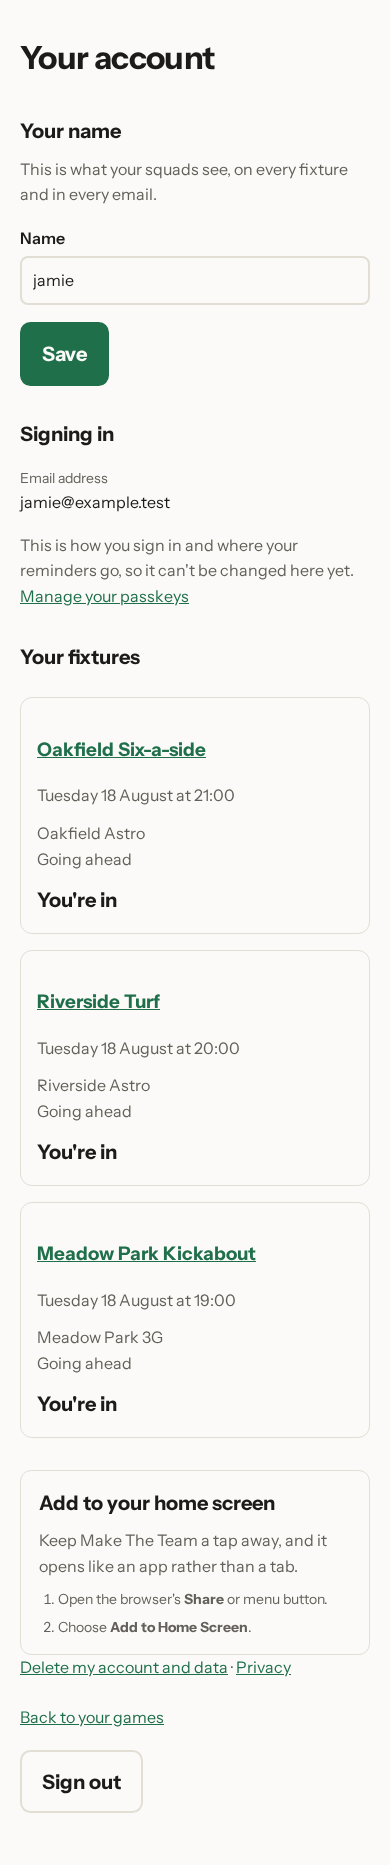
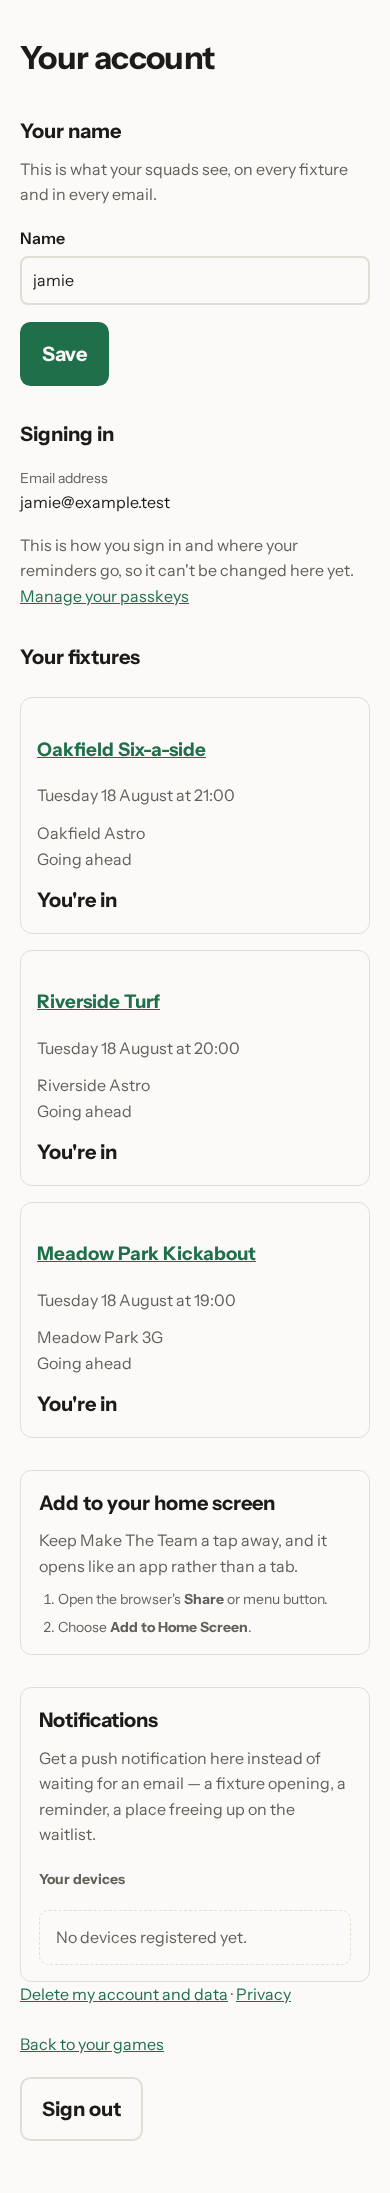
test: verify push in a browser, and document what only a phone can prove
Adds test/browser/push.spec.ts (M14 Task 15): the subscribe endpoint rejects
a malformed subscription reached by a real page fetch with no CSP violation,
the account page's push affordance stays dark with no VAPID key configured
(matching wrangler dev and production tonight), and the device list's
plain-form Remove control renders and works with JavaScript off.

Documents in docs/runbooks/browser-testing.md what this suite cannot prove:
real delivery, notification-tap routing, and removal actually stopping
delivery, none of which Playwright can assert without a CDP push domain that
does not exist. Writes the manual Android/iPhone checklist that is the only
thing that will ever prove push works end to end, to be run once the repo
owner generates the real VAPID keypair.

Regenerates the guide (docs/guide/manifest.json, five images, and
07-your-own-fixtures.md's account section) now that the account page's
Notifications section is part of what it shows.

Claude-Session: https://claude.ai/code/session_01YJ2C1PAmgsSYdyQCeYhykm

diff --git a/test/browser/push.spec.ts b/test/browser/push.spec.ts
@@ -1,0 +1,177 @@
+import { execFile } from "node:child_process";
+import { randomUUID } from "node:crypto";
+import { promisify } from "node:util";
+import { expect, test } from "@playwright/test";
+import { ACCOUNT_PATH, PUSH_SUBSCRIBE_PATH } from "../../src/auth/paths.js";
+import { PUSH_BUTTON_ID } from "../../src/views/scripts.js";
+import { observe } from "./observe.js";
+import { signIn, TEST_OWNER, TEST_PLAYER } from "./sign-in.js";
+import { seedWorld, type World } from "./world.js";
+
+const run = promisify(execFile);
+
+/**
+ * M14 web push (spec-referenced in the task 15 brief), tested at the tier
+ * this suite exists for: what only a real browser can prove.
+ *
+ * **What this file deliberately does not attempt.** Whether a push actually
+ * arrives — on the wire, past the OS, onto a lock screen — cannot be
+ * asserted from Playwright without driving Chrome DevTools Protocol far
+ * beyond what this harness uses elsewhere (a virtual authenticator for
+ * WebAuthn is a supported CDP domain; a synthetic push event delivered to a
+ * *registered* service worker is not exposed through Playwright at all, and
+ * `Page.evaluate`-ing `self.dispatchEvent(new PushEvent(...))` inside the
+ * worker only proves the handler runs, which Task 11's
+ * `test/routes/service-worker.test.ts` already does more precisely — it
+ * executes the served script text (`src/routes/pwa.ts`) against a stubbed
+ * `self`, with no browser involved at all). That gap is real and is
+ * documented as a manual gate in `docs/runbooks/browser-testing.md`, not
+ * silently left uncovered.
+ *
+ * **What this file also does not repeat.** Every catalogued page — which
+ * includes `/app/account` and the `respond` GET page — already runs through
+ * `console-gate.spec.ts`'s CSP/console sweep, so "no CSP violation on any
+ * catalogued page" needs no duplicate assertion here. And the one-time push
+ * offer on the response-confirmation page is exercised precisely, including
+ * its VAPID-absent no-op, by `test/routes/respond-post.test.ts` — a POST
+ * response and a database row are Vitest's job, not this suite's.
+ *
+ * **What is left, and is genuinely browser-only:**
+ *   1. The subscribe endpoint's validation, reached the way the real button
+ *      reaches it — a `fetch` issued from inside a loaded page, so a broken
+ *      `connect-src` would show up as a network failure here exactly as it
+ *      did for both passkey buttons (the post-mortem this whole suite exists
+ *      to prevent a repeat of).
+ *   2. The account page's device list and its plain-`<form>` Remove control,
+ *      submitted with JavaScript off — real browser form-submission
+ *      semantics, not a route handler called directly.
+ */
+
+/**
+ * This deployment's `wrangler dev` (`test/browser/browser.env`) sets neither
+ * `PUSH_NOTIFIER` nor a VAPID pair, so `wrangler.jsonc`'s own `"null"`
+ * applies — the same dark state Task 15's brief requires this suite to be
+ * honest about. `env.VAPID_PUBLIC_KEY` is undefined here exactly as it is in
+ * production tonight, so no test in this file may assume a permission
+ * button is ever revealed. What *is* true in both places, and is what these
+ * tests check: the subscribe endpoint itself, and the device list, work
+ * whether or not that key exists — neither depends on it.
+ */
+
+/** Matches `test/browser/world.ts`'s own private helper — see its comment. */
+async function execSql(sql: string): Promise<void> {
+  await run("npx", ["wrangler", "d1", "execute", "makethe-team", "--local", "--command", sql], {
+    cwd: process.cwd(),
+    maxBuffer: 4 * 1024 * 1024,
+  });
+}
+
+/**
+ * Inserts a `push_subscriptions` row directly, bypassing the real subscribe
+ * flow entirely — deliberately. A genuine `pushManager.subscribe()` call
+ * reaches an actual push service over the network (FCM for Chromium), which
+ * this hermetic suite must not depend on, and is also the one thing this
+ * file's own header says Playwright cannot exercise meaningfully. What is
+ * under test here is the *account page's* rendering and removal of a row
+ * that already exists, not how the row got there — `test/routes/push.test.ts`
+ * and `test/routes/account.test.ts` cover the subscribe/list logic itself in
+ * Vitest, where it is precise and fast.
+ */
+async function insertSubscription(playerId: string, endpoint: string, userAgent: string): Promise<void> {
+  await execSql(
+    `INSERT INTO push_subscriptions (id, player_id, endpoint, p256dh, auth, user_agent, created_at) ` +
+      `VALUES ('${randomUUID()}', '${playerId}', '${endpoint}', 'p256dh-value', 'auth-value', '${userAgent}', ${Date.now()})`,
+  );
+}
+
+let world: World;
+
+test.beforeAll(async ({ browser }) => {
+  const context = await browser.newContext();
+  const page = await context.newPage();
+  world = await seedWorld(page, browser);
+  await context.close();
+});
+
+test.describe("the subscribe endpoint", () => {
+  const malformed: { name: string; body: unknown }[] = [
+    { name: "no subscription field at all", body: {} },
+    { name: "an endpoint that is not https", body: { subscription: { endpoint: "http://push.example/x", keys: { p256dh: "AA", auth: "AA" } } } },
+    { name: "keys missing auth", body: { subscription: { endpoint: "https://push.example/x", keys: { p256dh: "AA" } } } },
+    {
+      name: "keys that are not the right shape once decoded",
+      body: { subscription: { endpoint: "https://push.example/x", keys: { p256dh: "not-base64url!!", auth: "AA" } } },
+    },
+  ];
+
+  for (const { name, body } of malformed) {
+    test(`rejects ${name}, reached by a real fetch from the page — no CSP violation`, async ({ page }) => {
+      const seen = observe(page);
+      await signIn(page, TEST_OWNER);
+      await page.goto(ACCOUNT_PATH);
+
+      const result = await page.evaluate(
+        async ({ path, payload }) => {
+          const response = await fetch(path, {
+            method: "POST",
+            headers: { "content-type": "application/json" },
+            body: JSON.stringify(payload),
+          });
+          return { status: response.status, body: await response.text() };
+        },
+        { path: PUSH_SUBSCRIBE_PATH, payload: body },
+      );
+
+      expect(result.status, `body was: ${result.body}`).toBe(400);
+      expect(
+        await seen.violations(),
+        "a CSP violation here would mean the account page's own script could " +
+          "never have reached this endpoint either — the exact failure mode " +
+          "the connect-src post-mortem describes.",
+      ).toEqual([]);
+    });
+  }
+});
+
+test("the account page's push affordance stays dark with no VAPID key configured, matching production tonight", async ({
+  page,
+}) => {
+  await signIn(page, TEST_OWNER);
+  await page.goto(ACCOUNT_PATH);
+
+  // `renderPermissionButton` (src/views/install.ts) renders nothing at all —
+  // not even a hidden element — once `vapidPublicKey` is undefined. This
+  // environment's `wrangler dev` carries no VAPID vars (see the header
+  // comment above), so this is the honest, currently-true state, not a
+  // hypothetical one.
+  await expect(page.locator(`#${PUSH_BUTTON_ID}`)).toHaveCount(0);
+  await expect(page.locator("section.push h2")).toHaveText("Notifications");
+});
+
+test.describe("the device list, with JavaScript off", () => {
+  test.use({ javaScriptEnabled: false });
+
+  test("a registered device renders, and its plain-form Remove control actually removes it", async ({ page }) => {
+    const endpoint = `https://push.example/browser-test-${randomUUID()}`;
+    await insertSubscription(world.memberPlayerId, endpoint, "The test phone");
+
+    await signIn(page, TEST_PLAYER);
+    await page.goto(ACCOUNT_PATH);
+
+    const row = page.locator(".push-device", { hasText: "The test phone" });
+    await expect(row).toBeVisible();
+
+    // This is a real `<form method="post">` submit, not a script-driven
+    // delete — §11's closing paragraph requires the whole list to work with
+    // no JavaScript at all, and `javaScriptEnabled: false` on this whole
+    // describe block is what proves it rather than assumes it.
+    await row.getByRole("button", { name: "Remove" }).click();
+
+    // `POST /app/push/unsubscribe`'s form branch answers a 303 back to
+    // `ACCOUNT_PATH` precisely so a no-JS submit lands somewhere that shows
+    // the row is actually gone, rather than leaving the stale page in place
+    // (M14 Task 12 review, Finding 3).
+    await expect(page).toHaveURL(new RegExp(`${ACCOUNT_PATH}$`));
+    await expect(page.locator(".push-device", { hasText: "The test phone" })).toHaveCount(0);
+  });
+});

diff --git a/test/browser/catalogue.ts b/test/browser/catalogue.ts
@@ -99,7 +99,7 @@ export const CATALOGUE: CataloguePage[] = [
     // renders with rows rather than as its empty state, which is the version
     // worth putting in front of a browser and a CSP.
     persona: "owner",
-    note: "A player's own record: their name (editable), their email (not), how they sign in, and their last 20 fixtures across every game.",
+    note: "A player's own record: their name (editable), their email (not), how they sign in, their push notification devices (M14), and their last 20 fixtures across every game.",
   },
   {
     id: "new-game",

diff --git a/test/browser/guide-shots.ts b/test/browser/guide-shots.ts
@@ -348,7 +348,8 @@ export const SHOTS: Shot[] = [
       "A player's own account page: their name in an editable field, then a " +
       "Signing in section reading out their email address under a small caption, " +
       "a link to manage passkeys, their last fixtures across every game most " +
-      "recent first, and a section offering to install the app.",
+      "recent first, a section offering to install the app, and a Notifications " +
+      "section listing their registered devices.",
     path: () => "/app/account",
     persona: "organiser",
   },

diff --git a/docs/runbooks/browser-testing.md b/docs/runbooks/browser-testing.md
@@ -217,3 +217,123 @@ Both checks matter for the same reason the rest of this document exists: each
 failure mode is invisible from a server or a headless browser. A wrong or
 missing `apple-touch-icon` link fails silently — iOS falls back to a
 screenshot of the page, and nothing anywhere logs that it did.
+
+## What this suite cannot prove: push delivery itself (M14)
+
+`test/browser/push.spec.ts` proves three things, all in a real Chromium: the
+account page's "Turn on notifications" affordance renders nothing at all
+while no VAPID key is configured — the honest, currently-true state of this
+project's own `wrangler dev` and of production tonight, not a hypothetical
+one — so a broken deployment can never ship a button that could never have
+worked; `POST /app/push/subscribe`, reached the way the real button reaches
+it (a `fetch` issued from inside a loaded page, not a bare HTTP client),
+rejects a malformed subscription with no CSP violation in the way; and the
+account page's device list, together with its plain-`<form>` Remove control,
+renders and actually removes a row with JavaScript switched off. `/app/account`
+— the one page that always carries push UI, dark state or not — already runs
+through `console-gate.spec.ts`'s CSP/console sweep as part of the catalogue,
+so this file adds no duplicate of that check. (`/r/:token`'s GET, also
+catalogued, is not push UI at all here: the one-time offer is rendered only
+by the POST response handler, and only when a VAPID key exists — see
+`resolvePushOffer` in `src/routes/respond.ts` — so in this environment, where
+one never does, the catalogued GET never shows it. That gating is Vitest's to
+prove, precisely, in `test/routes/respond-post.test.ts`.)
+
+That is everything Playwright can prove, and it stops well short of "push
+notifications work." **Nothing in this repository's test suite, browser or
+Vitest, can assert that a real device receives a push, that a tap opens the
+right fixture, or that removing a device on `/app/account` stops delivery to
+it.** Chromium exposes no CDP domain for a synthetic `push` event delivered
+through a real service-worker registration the way `WebAuthn.addVirtualAuthenticator`
+exposes one for passkeys — the closest available substitute,
+`self.dispatchEvent(new PushEvent(...))` run inside the worker via
+`page.evaluate`, only proves the handler *runs*, which Task 11's
+`test/routes/service-worker.test.ts` already does more precisely and without
+a browser at all — it executes the served script text (`src/routes/pwa.ts`)
+against a stubbed `self`. Real delivery — Cloudflare's edge, through Google's
+or Apple's push service, onto a real lock screen — has no test double worth
+writing, only a real phone.
+
+**This is a documented manual gate, and it must block the production deploy
+that turns push on** (`PUSH_NOTIFIER: "webpush"` in `wrangler.jsonc`), not an
+assumption folded into "the suite is green." Run it once, after the VAPID
+keypair exists and is deployed (`docs/runbooks/cloudflare.md`'s
+`VAPID_PRIVATE_KEY` section — do that first; nothing below works against a
+deployment still pinned to `PUSH_NOTIFIER: "null"`), and again after any
+change that touches `src/notify/push-notifier.ts`, `src/notify/push-copy.ts`,
+the push/notificationclick handling in `src/routes/pwa.ts` (served as
+`/sw.js`), or the VAPID keys themselves.
+
+**Android (Chrome).**
+
+1. Install the app (see the M13 checklist above) and open it.
+2. On `/app/account`, tap **Turn on notifications** and grant the OS
+   permission prompt. The button disappears and the device appears in
+   **Your devices** with a caption — confirms the subscribe round-trip
+   succeeded, not merely that the browser accepted the permission.
+3. From another signed-in identity (or as the game's organiser), trigger
+   anything that sends this player a push — cancelling a fixture they are in,
+   or promoting them off a waitlist are the two easiest to arrange on demand.
+   A reminder email would also do it, but is slower to arrange than an
+   organiser action taken right now.
+4. **Confirm the notification arrives** — on the lock screen or in the
+   notification shade, within a few seconds. If nothing arrives inside a
+   couple of minutes, treat it as a failure rather than "still in flight":
+   web push over FCM is not normally slow.
+5. **Tap it, and confirm it opens the right fixture** — not the app's home
+   screen, not a blank tab, the specific `/g/:id/f/:fixtureId` (or `/r/:token`)
+   the event was about. This is `notificationclick`'s job in
+   `src/routes/pwa.ts` (served as `/sw.js`), and it is the one behaviour Task
+   11's stubbed-`self` test cannot watch a real browser actually perform.
+6. Back on `/app/account`, tap **Remove** next to that device. The row
+   disappears immediately (a real `<form>` `303` round-trip — confirmed
+   automatically by `push.spec.ts` above).
+7. Repeat step 3. **Confirm nothing arrives this time.** This is the step
+   most likely to be skipped because step 6's row disappearing *looks* like
+   proof enough — it proves the database row is gone, not that the push
+   service has stopped trying to deliver to it. Only a second, deliberately
+   provoked non-event proves that.
+
+**iPhone (Safari).**
+
+Repeat the same seven steps. iOS Safari's web push (16.4+) has its own
+failure modes Android does not:
+
+- The permission prompt only appears for an app already added to the home
+  screen (Share → **Add to Home Screen**) and opened from there — granting
+  notification permission from a Safari *tab* silently does nothing useful,
+  and presents as step 2 above simply not offering the OS prompt at all.
+- A notification tap on iOS can open the installed app fresh rather than
+  resuming a backgrounded instance; step 5's "opens the right fixture" check
+  still applies to wherever it lands, but do not read a fresh launch as a
+  bug on its own.
+- If the app was ever removed and reinstalled, or if notification permission
+  was ever explicitly denied and iOS is asked again, iOS does not always
+  re-offer the prompt through the same route — checking `Settings → [app
+  name] → Notifications` directly is the reliable way to see or reset the
+  current permission when step 2 seems stuck.
+
+**What a failure at each step actually means**, so a failed run is
+diagnosable rather than just "push doesn't work":
+
+- **Step 2 never shows a device on `/app/account`.** The subscribe POST
+  failed or was never sent — check `PUSH_NOTIFIER` is really `"webpush"` on
+  the deployment under test (not `"null"`), and check the browser's own
+  console for a CSP or network error `push.spec.ts`'s malformed-request test
+  would have caught for a request shape, but not for a wrong or missing key.
+- **Step 4 never arrives, but step 2 succeeded.** Either the push service
+  refused the send (`last_failure_at` on the `push_subscriptions` row, per
+  `src/notify/push-notifier.ts`'s doc comment, is the place to look first) or
+  the event that was supposed to trigger it did not actually fire — confirm
+  independently (an email for the same event, or the fixture's own state)
+  that the event happened at all before concluding push itself is broken.
+- **Step 5 opens the wrong place, or nothing.** `notificationclick` in
+  `src/routes/pwa.ts` (served as `/sw.js`), or the `url` field on the
+  `PushMessage` that produced it (`src/notify/push-copy.ts`) — not the
+  subscribe path, which steps 2–4 having worked already rules out.
+- **Step 7 still delivers.** The device row was removed from the wrong
+  player, or a second row for the same physical device still exists (the
+  upsert-on-`endpoint` behaviour `src/routes/push.ts` documents is what is
+  supposed to prevent this) — check `push_subscriptions` for the player
+  directly rather than trusting the account page's own list, which is
+  reading the same table the bug would be in.

diff --git a/docs/guide/07-your-own-fixtures.md b/docs/guide/07-your-own-fixtures.md
@@ -44,7 +44,7 @@ old way.
 
 ## Your account
 
-![A player's own account page: their name in an editable field, their email address beside it, a link to manage passkeys, and their last fixtures across every game, most recent first](images/account.png)
+![A player's own account page: their name in an editable field, their email address beside it, a link to manage passkeys, a notifications section, and their last fixtures across every game, most recent first](images/account.png)
 
 There's a page for you as well as for your games. **Your account** — linked
 from your games list — has your name on it, and changing it there changes it
@@ -65,6 +65,12 @@ Further down the account page is an offer to add Make The Team to your home
 screen, with instructions for your device. Installed, it opens straight to
 your fixtures — no browser bar, no address to remember, just an icon like
 any other app.
+
+Below that is **Notifications**, where a supported device can be turned on
+to get a push notification here instead of waiting for an email — a fixture
+opening, a reminder, a place freeing up on the waitlist. Devices you've
+turned this on for are listed underneath, each with its own **Remove**, so
+you can turn a phone off without touching any of the others.
 
 ## When there's no connection
 
